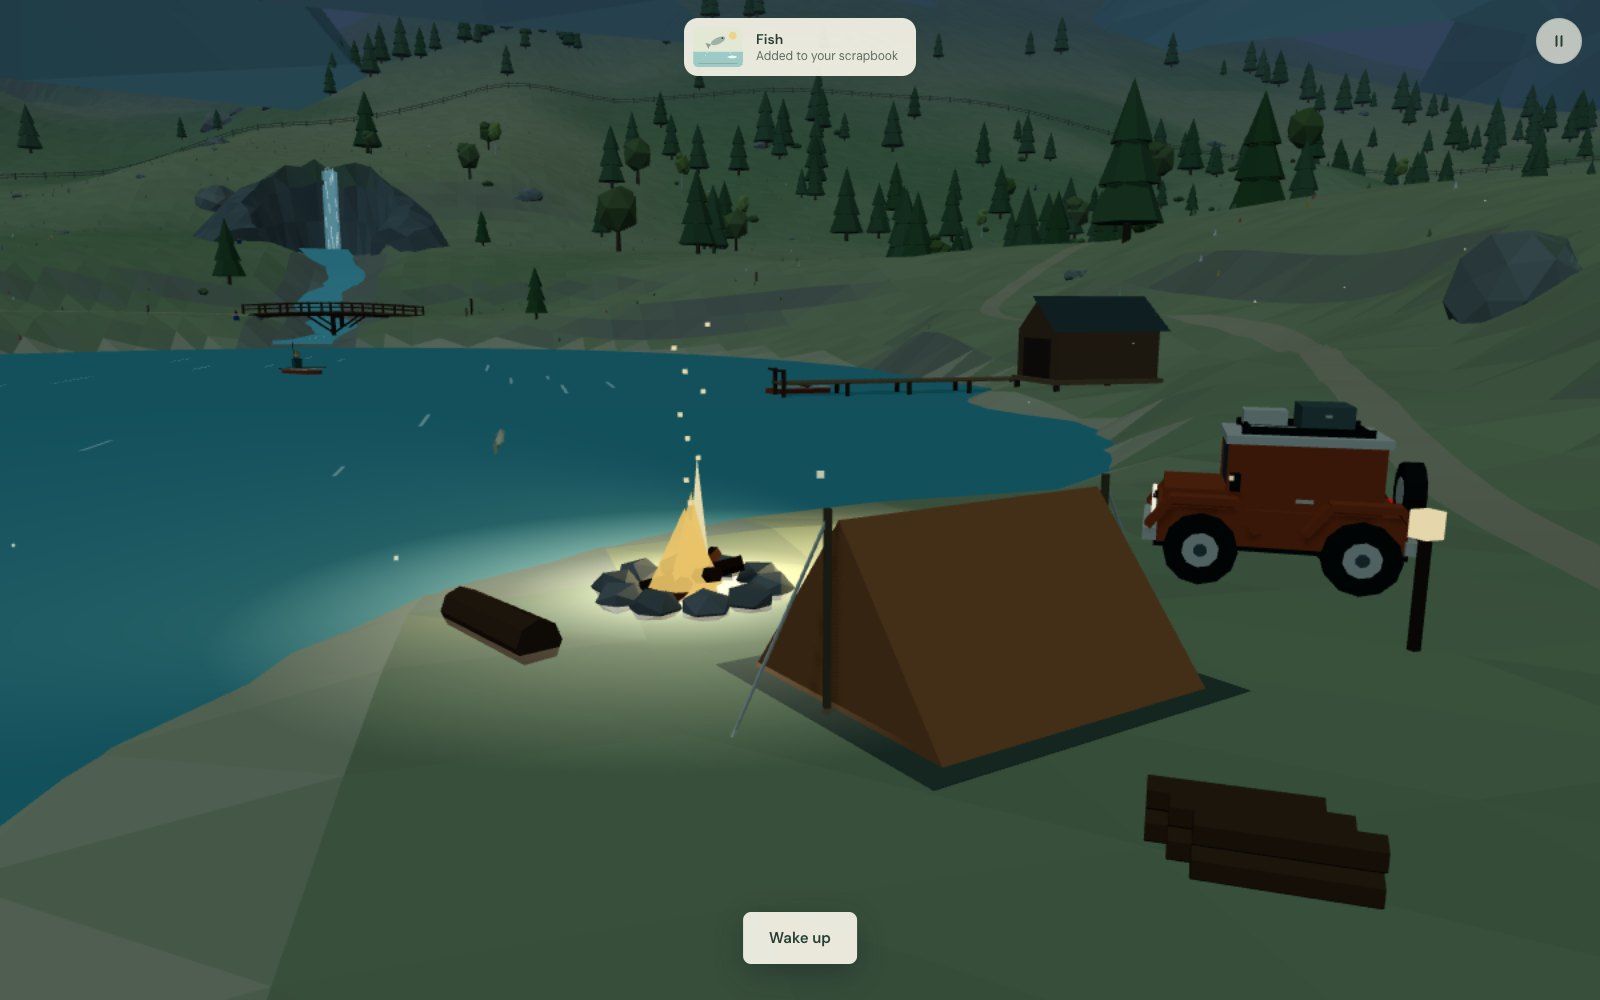
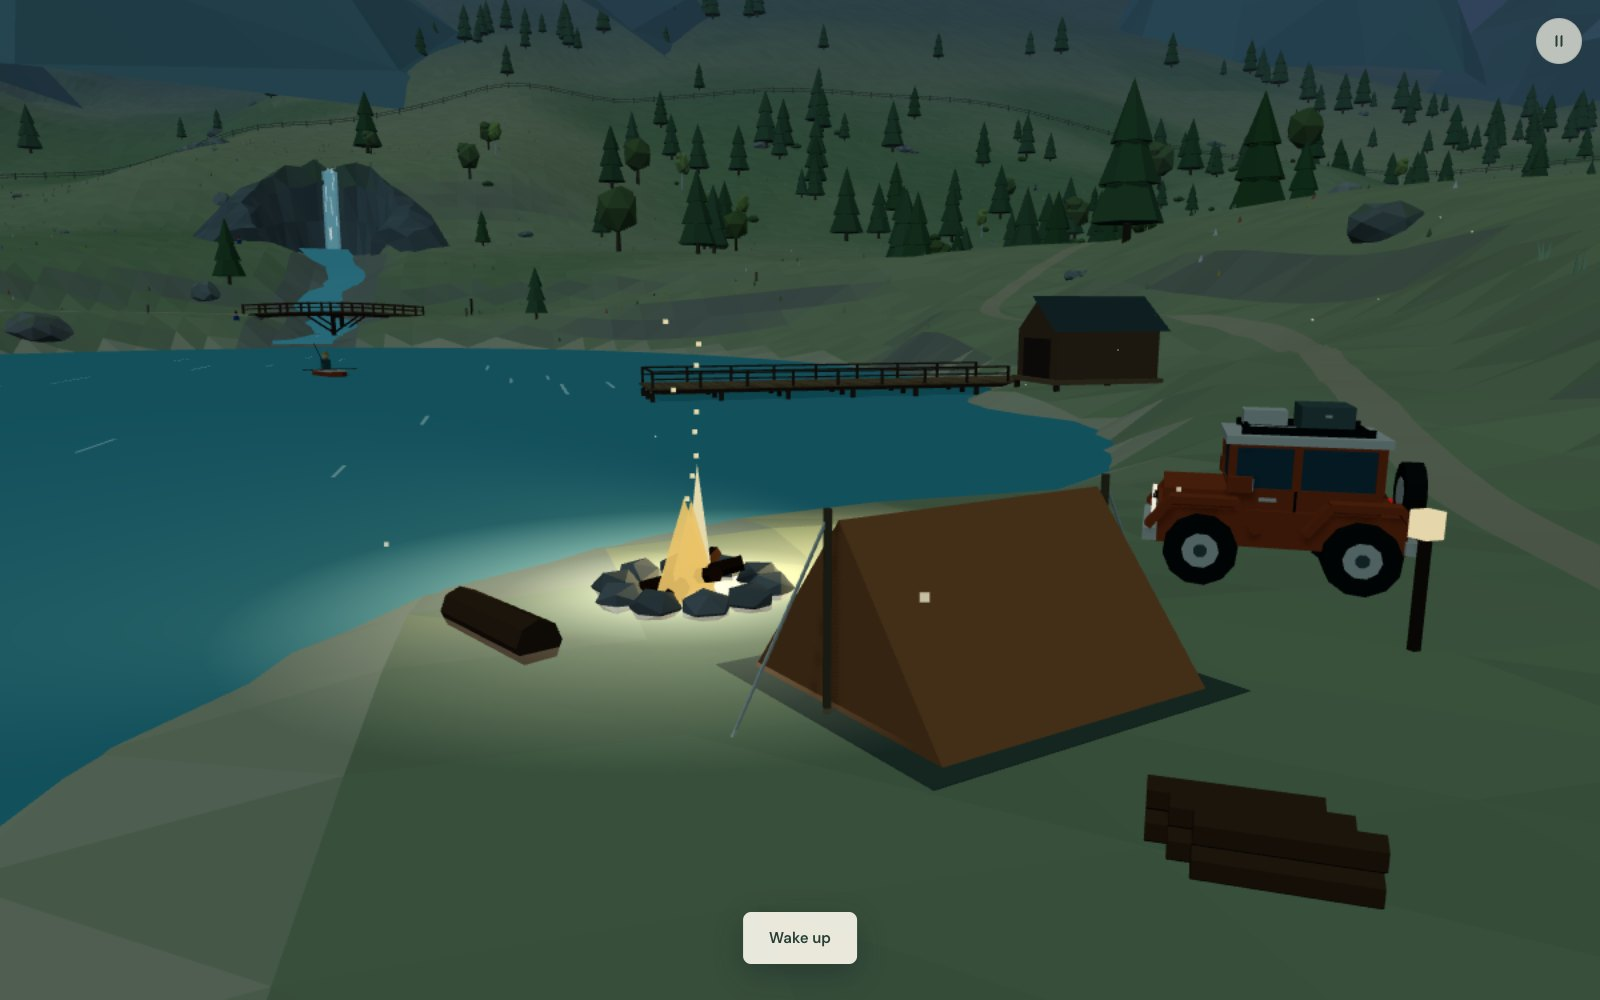
Add the hut and the jetty to the README and refresh the screenshots

diff --git a/README.md b/README.md
@@ -13,6 +13,10 @@ A relaxed low-poly driving game that runs in the browser. Take a little off-road
   <img src="docs/camp.jpg" width="49%" alt="A night at the lakeside campsite">
 </p>
 <p>
+  <img src="docs/hut.jpg" width="49%" alt="Masarykova chata, the mountain hut in the northern hills">
+  <img src="docs/jetty.jpg" width="49%" alt="Driving out along the jetty on the lake">
+</p>
+<p>
   <img src="docs/garage.jpg" width="49%" alt="Choosing a colour and roof items, with the car shown beside the menu">
   <img src="docs/scrapbook.jpg" width="49%" alt="The pause menu's scrapbook of places and animals">
 </p>
@@ -47,8 +51,8 @@ To play on your phone from your own computer, run `npm run dev` and open the **N
 
 ## Things to find
 
-- **Places and animals.** A waterfall, a farm, a fire tower, a windmill, a jetty and more, plus deer, cows, a fox, geese and fish that jump in the lake. Driving past them adds stickers to your scrapbook, which you'll find in the pause menu.
-- **Side tracks.** Narrow dirt tracks lead off the main trail to the farm, the tower and the windmill, and a path follows the lake shore.
+- **Places and animals.** A waterfall, a farm, a fire tower, a windmill, a jetty you can drive onto, a mountain hut and a line of old concrete bunkers, plus deer, cows, a fox, geese, an eagle and fish that jump in the lake. Driving past them adds stickers to your scrapbook, which you'll find in the pause menu.
+- **Side tracks.** Narrow dirt tracks lead off the main trail to the farm, the tower, the windmill and up a hairpin to the hut, and a path follows the lake shore.
 - **Garden gnomes.** Ten are hidden around the valley, some of them far off the trail. Finding them all unlocks something for the car.
 - **A few secrets.** Try the horn in the tunnel, near the animals and at passing cars. Keep an eye on the snow, too.
 
